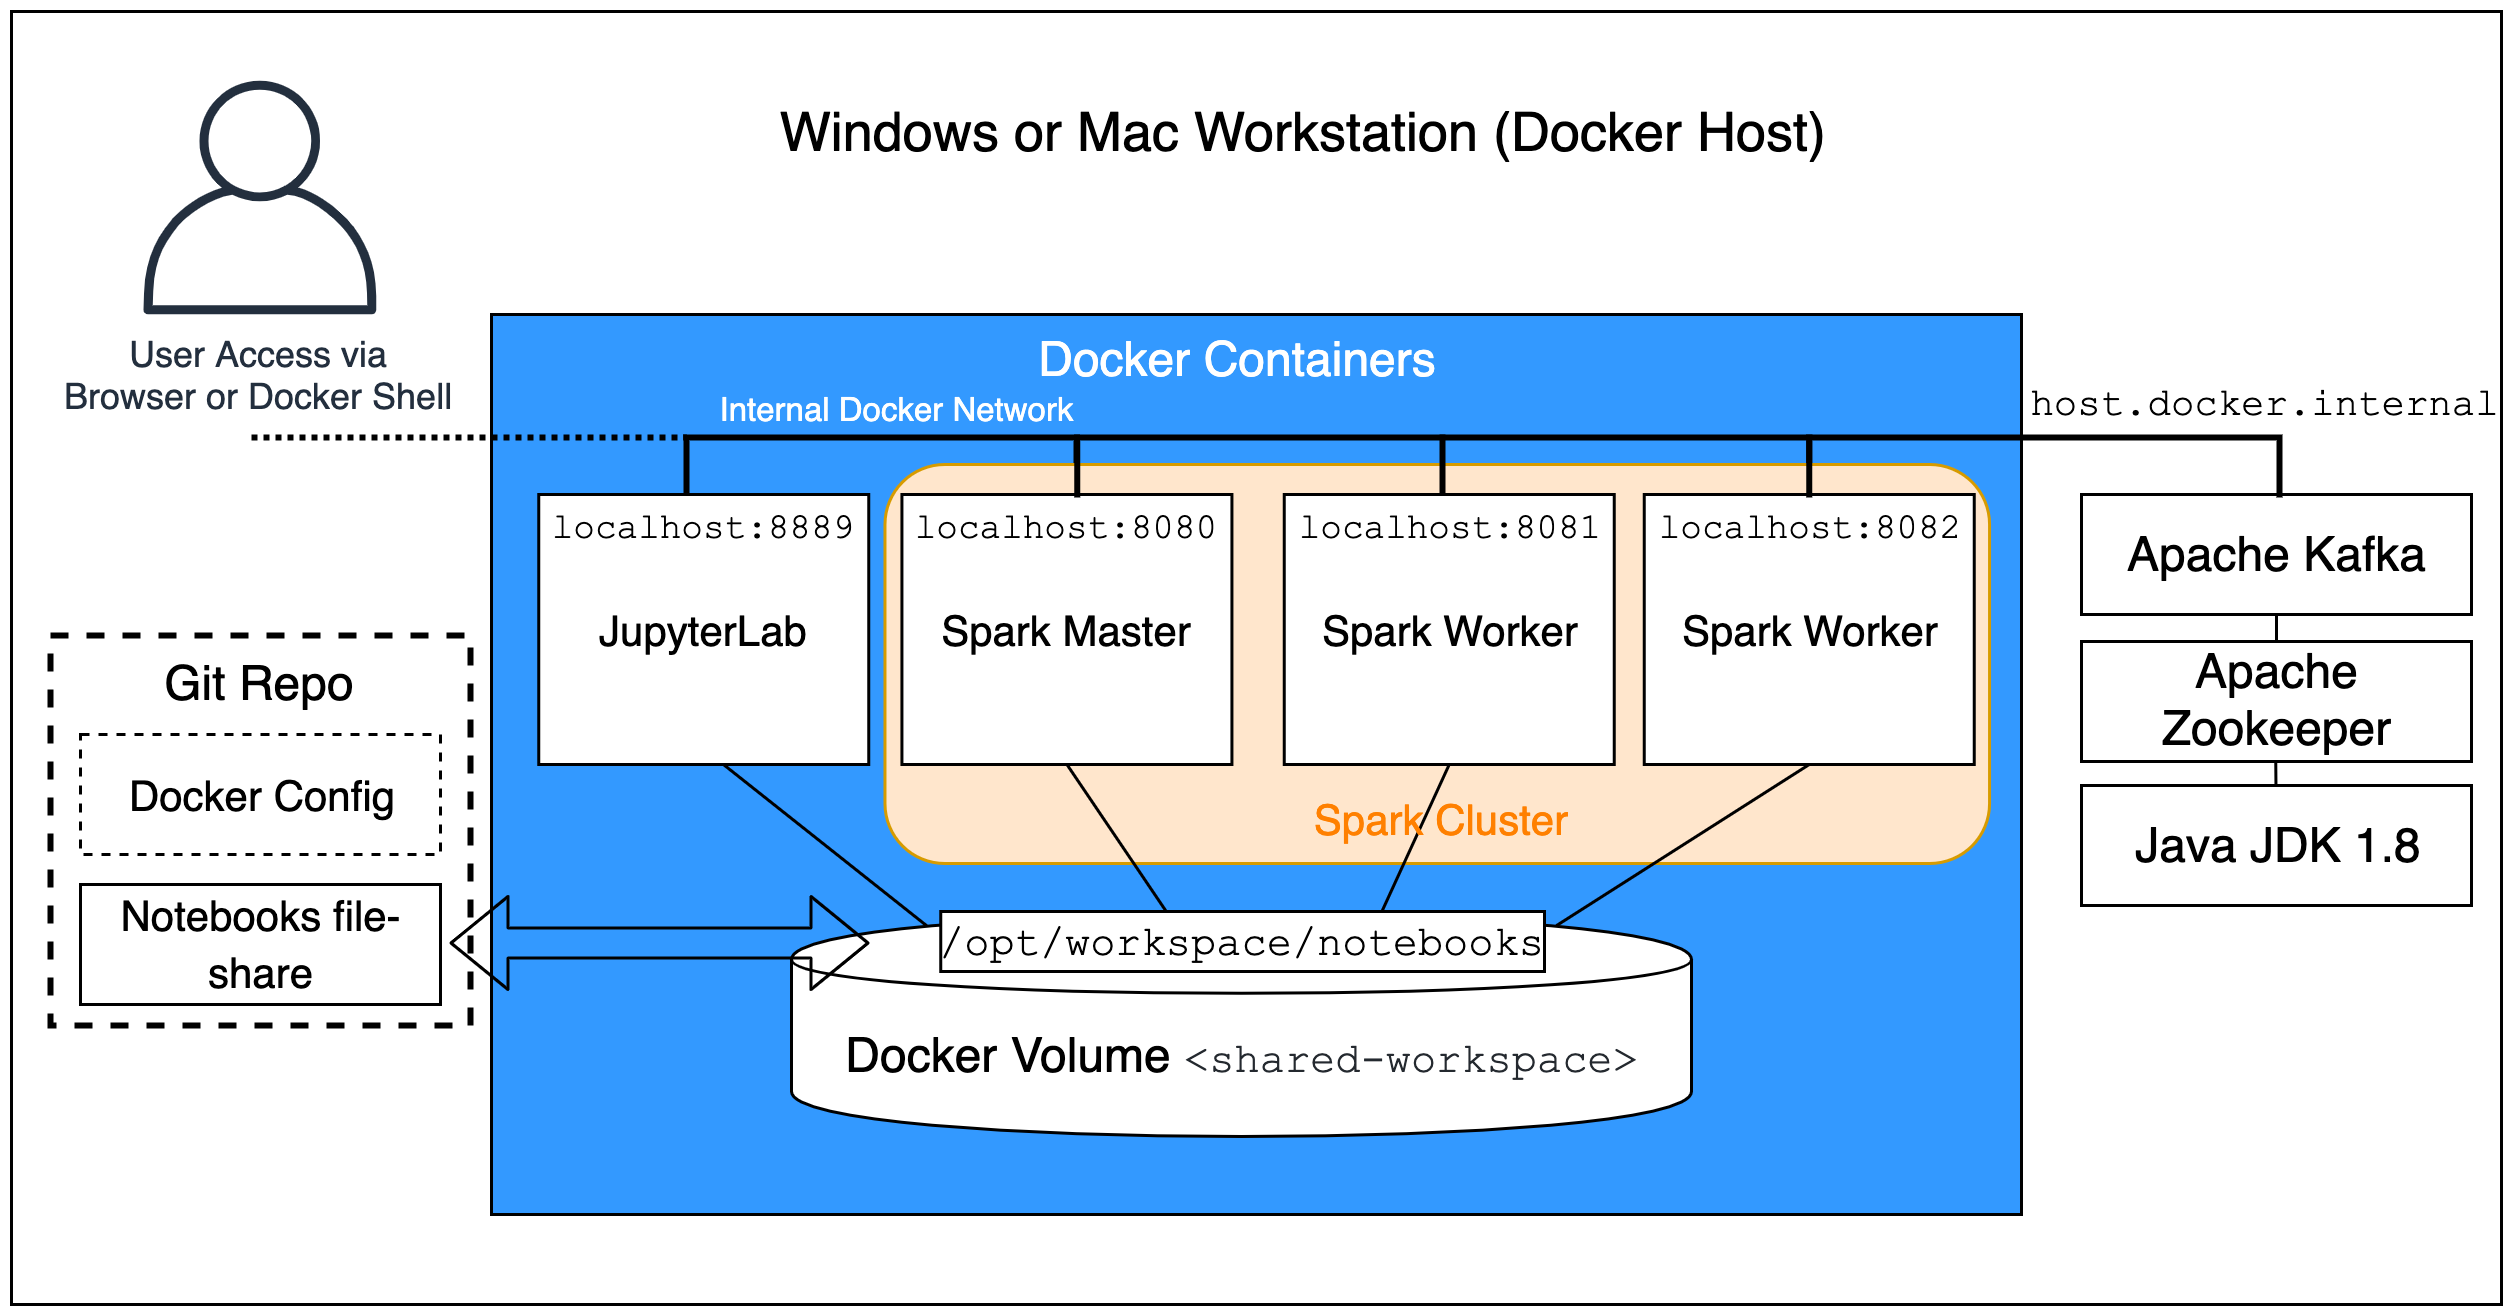
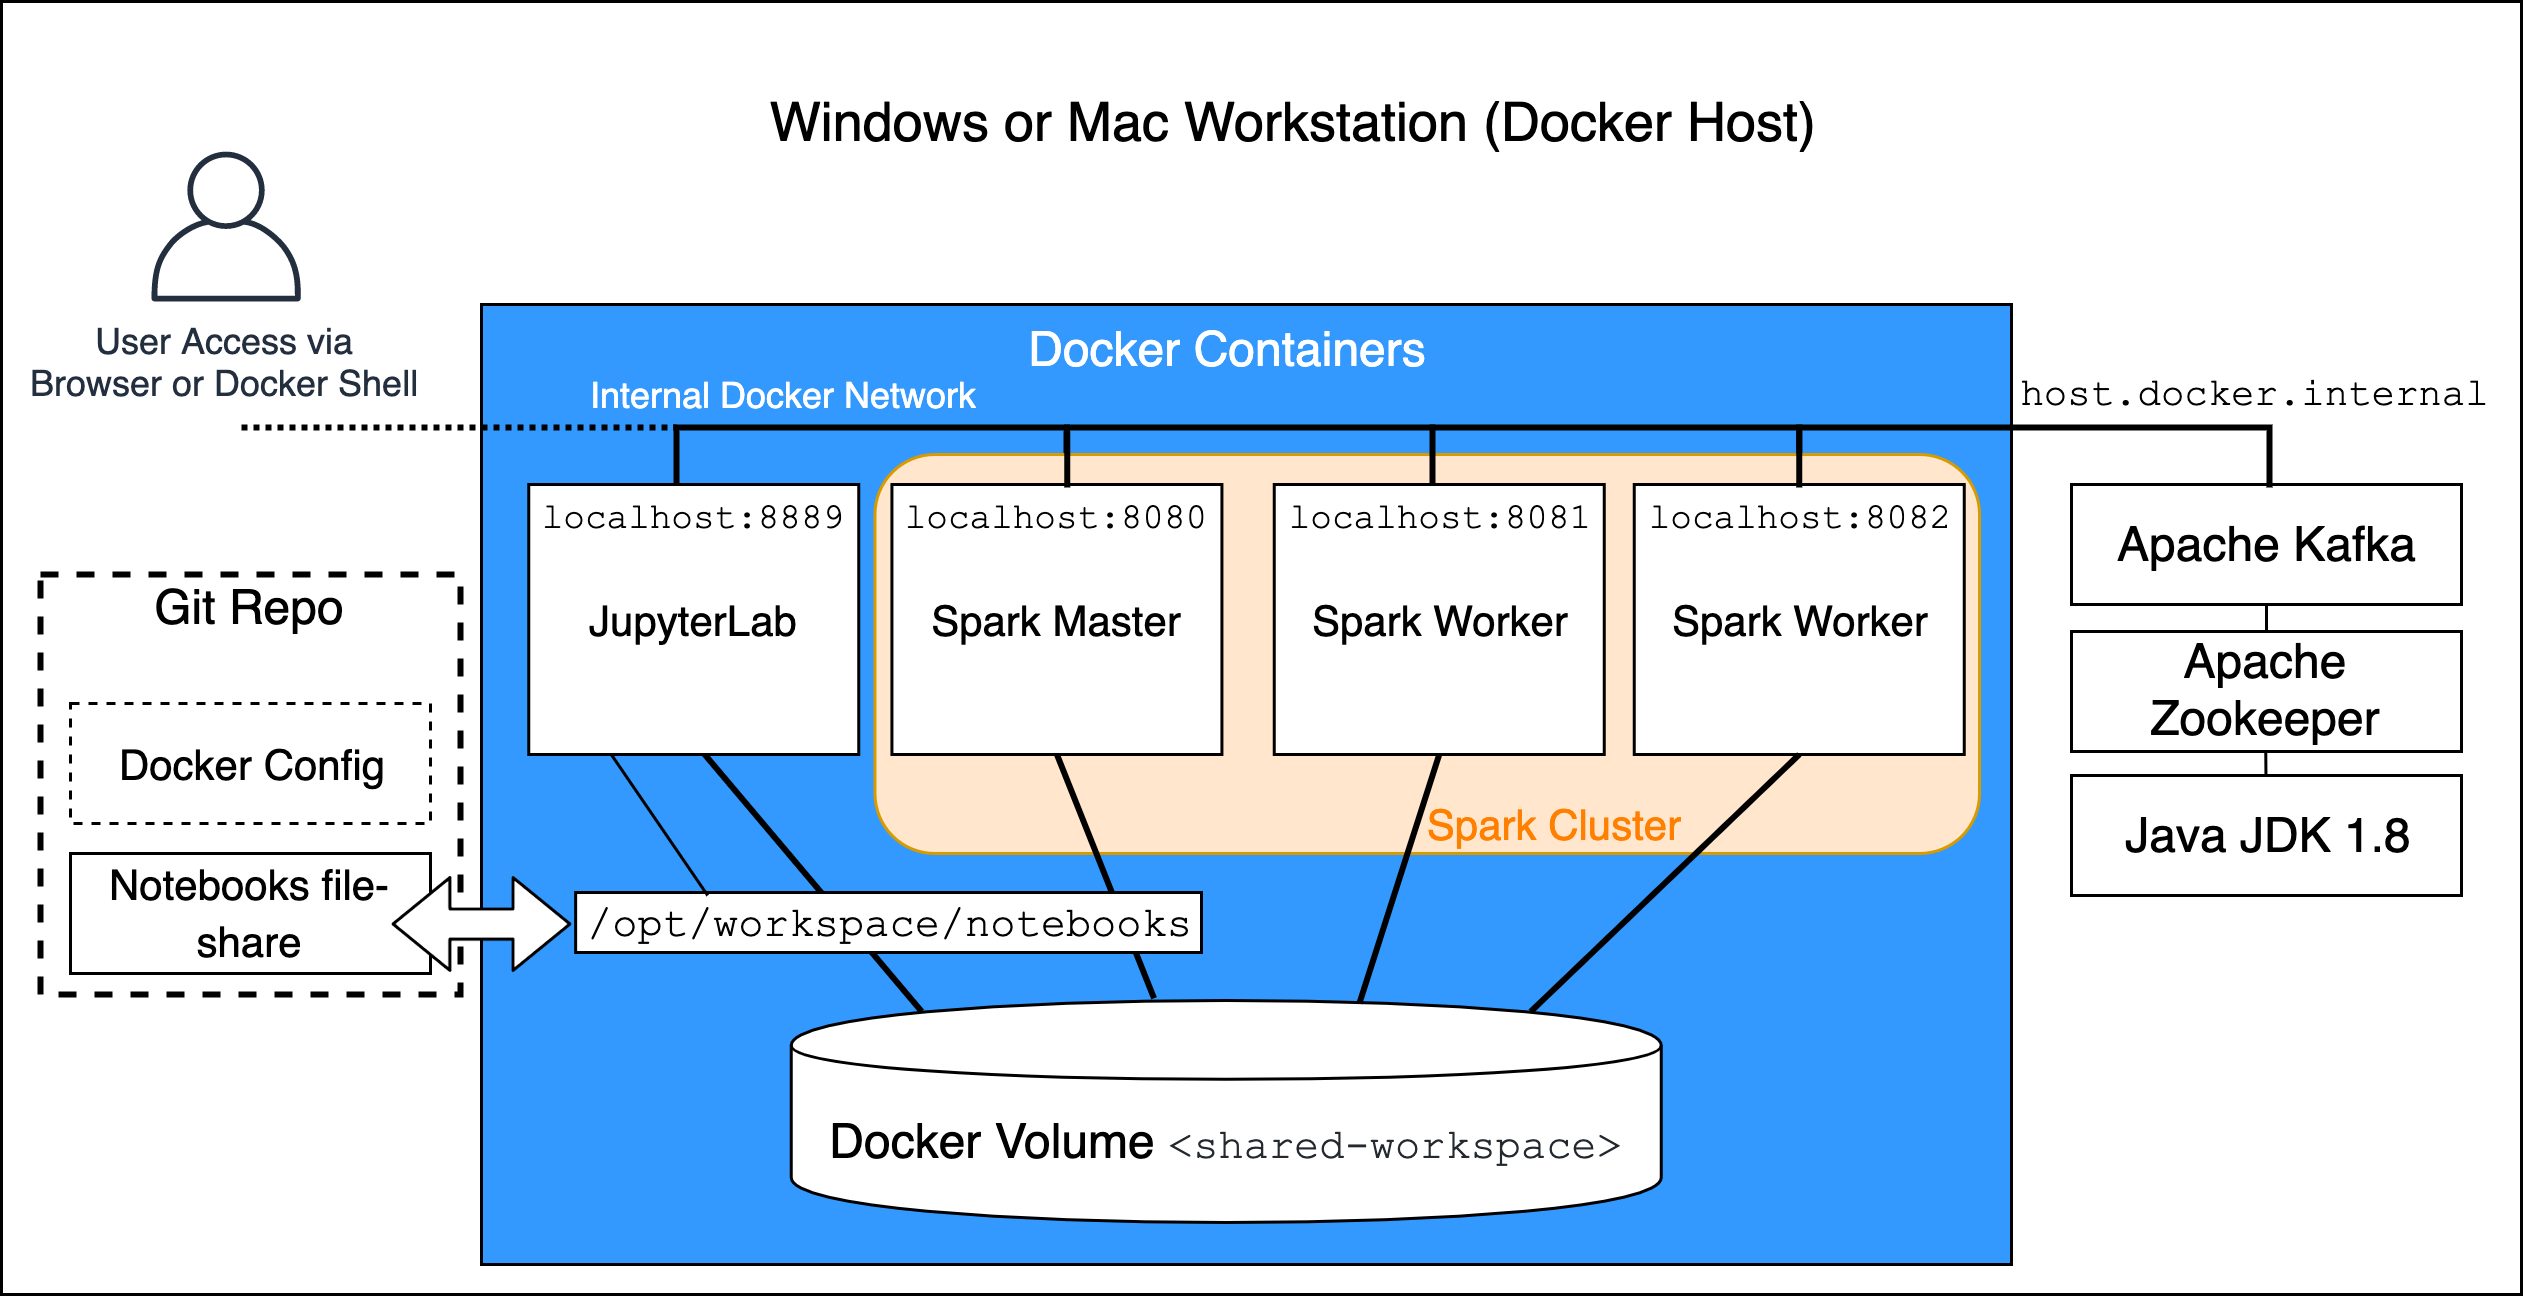
update README for new folder structure and Kafka integration

Changed region(s): [[0.0, 0.0, 1.0, 1.0], [0.3104, 0.0617, 0.7449, 0.1235]]

diff --git a/README.md b/README.md
@@ -1,6 +1,8 @@
 # Spark and Kafka in Docker Cluster #
 
-This is based on the following article:  https://towardsdatascience.com/apache-spark-cluster-on-docker-ft-a-juyterlab-interface-418383c95445
+Run a Kafka and Spark cluster on a Mac or Windows workstation or Laptop.   
+
+The Spark cluster build is based on the following article:  https://towardsdatascience.com/apache-spark-cluster-on-docker-ft-a-juyterlab-interface-418383c95445
  written by [@dekoperez](https://twitter.com/dekoperez) and then extended to include Spark Streaming with PySpark compatibility and PySpark UDF execution on the worker nodes.  The build has also been updated to include a working Spark history service.  The Python packages `numpy`, `pandas` and `matplotlib` have been added to the JupyterLab docker file - this increases the size of the image.
 
 A two-node cluster and a spark master are built as Docker images along with a separate JupyterLab environment.  Each runs in a separate container and shares a network and shared file-system.  
@@ -46,10 +48,10 @@ The following Docker images are created:
 + `spark-base`  - base Apache Spark image to build the Spark Master and Spark Workers on.   
 + `spark-master` - Spark Master that allows Worker nodes to connect via SPARK_MASTER_PORT, also exposes the Spark Master UI web-page (port 8080).  
 + `spark-worker` - multiple Spark Worker containers can be started from this image to form the cluster.    
-+ `jupyterlab` -  built on top of the cluster-base with Python and JupyterLab environment set up and sharing the same shared workspace file-system mount as the rest of the cluster.  
++ `jupyterlab` -  built on top of the cluster-base with Python and JupyterLab environment with an additional filesystem for storing Jupyter Notebooks and spark-submit scripts.
 
 
-The cluster is dependent on a hared volume `shared-workspace` that is created during the docker-compose initialisation
+The cluster is dependent on a shared volume `shared-workspace` that is created during the docker-compose initialisation
 - as per this  `docker-compose.yml` excerpt:
 ```
 volumes:
@@ -59,6 +61,14 @@ volumes:
 ```
 
 Once created, the data in shared-workspace is persistent in the Docker environment.
+
+## Cluster Dependencies ##
+
+*Docker Compose* is used to link all the cluster components together so that an overall running cluster service can be started.  
+
+`docker-compose.yml` initialises a shared cluster volume for the shared filesystem (HDFS simulation) and also maps `./local/notebooks` to a mount point in the JupyterLab Docker container.  
+
+Various other port-mappings and configuration details are set in this configuration file.  Because all the worker nodes need to be referenced at `localhost`, they are mapped to different port numbers (ports 8081 and 8082 for worker 1 and 2).
 
 ## Start Cluster ##
 
@@ -72,54 +82,37 @@ docker-compose up --detach
 docker-compose down
 ```
 
-### Shared JupyterLab Notebooks Folder ###
+## Kafka Build and Operations ##
 
-The folder `./notebooks` in this Git Repo is mapped to a Docker volume on top of the shared workspace area.  This allows updates to the Jupyter notebooks to be maintained in the Git repository externally to the Docker build.  Create this additional volume in the Docker admin tool as follows:
+If required, a Kafka streaming environment can also be created that is integrated with the Spark cluster.  This has to be manually installed and configured. 
+ Instructions for installing Kafka are in [README_KAFKA.md](./README_KAFKA.md)
 
-![Docker Desktop Windows settings](./images/WindowsDockerFileshare.png)
+An example of running a continuous aggregate query in Spark receiving data from a Kafka topic is provided in [README_KAFKA_EXAMPLE.md](./README_KAFKA_EXAMPLE.md) 
 
-### Docker Compose Structure ###
+## Shared JupyterLab Notebooks Folder ##
 
-The  `docker-compose.yml` file is set to mount the Git Repo `./notebooks` folder on top of `/opt/workspace` on the `jupyterlab` container :
-```
-services:
-  jupyterlab:
-    image: jupyterlab
-    container_name: jupyterlab
-    ports:
-      - 8888:8888
-    volumes:
-      - shared-workspace:/opt/workspace
-      - ./notebooks:/opt/workspace/notebooks
-```
+The folder `./local/notebooks` in the Git repo is mapped to a filesytem mount `/opt/workspace/notebooks` in the JupyterLab host running in Docker.  This allows notebooks to be easily passed in and out of the Docker environment, and they can be stored and updated independently of the images.  
 
-### Folders ###
+This folder is included in the `.gitignore` file so updates to the notebooks and new notebooks are not tracked.  
 
-Three additional shared cluster-wide folders are created on top of `/opt/workspace` at build time In the Spark Master Docker build:
+
+## Data Folders ##
+
+Three shared cluster-wide folders are created on top of `/opt/workspace` at build time In the Spark Master Docker build:
 + `/opt/workspace/events` - Spark history events  
 + `/opt/workspace/datain` - source data for loading in to Spark jobs  
 + `/opt/workspace/dataout`- output data from Spark jobs  
 
-The data in these folders is *persistent* between container restarts and between Docker image rebuilds as it is located on the Docker `shared-workspace` volume.
+The data in these folders is persistent between container restarts and between Docker image rebuilds as it is located on the Docker `shared-workspace` volume.
 
 
-### Cluster Dependencies ###
-
-*Docker Compose* is used to link all the cluster components together so that an overall running cluster service can be started.  
-
-`docker-compose.yml` initialises a shared cluster volume for the shared filesystem (HDFS simulation) and also maps `./notebooks` to a mount point in the JupyterLab Docker container.  
-
-Various other port-mappings and configuration details are set in this configuration file.  Because all the worker nodes need to be referenced at `localhost`, they are mapped to different port numbers (ports 8081 and 8082 for worker 1 and 2).
-
-### Compute and Memory Resources ##
+## Compute and Memory Resources ##
 
 Re-size the `SPARK_WORKER_CORES` and `SPARK_WORKER_MEMORY` to size the cluster so that it can run in the local environment.  
 
 *Check the amount of host resources allocated to Docker in the Docker Desktop configuration*.  8 GB of memory is recommended, 4 GB is the minimum.
 
 ![Docker Desktop Windows settings](./images/DockerDesktopMemory.png)  
-
-
 
 
 ## Spark-Master Logs and Interactive Shell ##
@@ -167,12 +160,7 @@ The Spark History Server is configured by copying `spark-defaults.conf` to the S
 
 To clear down the history of jobs, just connect to the spark master or worker node and delete the files created by job executions in `/opt/workspace/events`.
 
-## Kafka Build and Operations ##
 
-Local desktop install of Kafka instructions are in [README_KAFKA.md](./README_KAFKA.md)
-
-
-An example of running a continuous aggregate query in Spark receiving data from a Kafka topic is provided in [README_KAFKA_EXAMPLE.md](./README_KAFKA_EXAMPLE.md) 
 
 # Connect to Cluster via JupyterLab to run Interactive Notebook Sessions #
 
